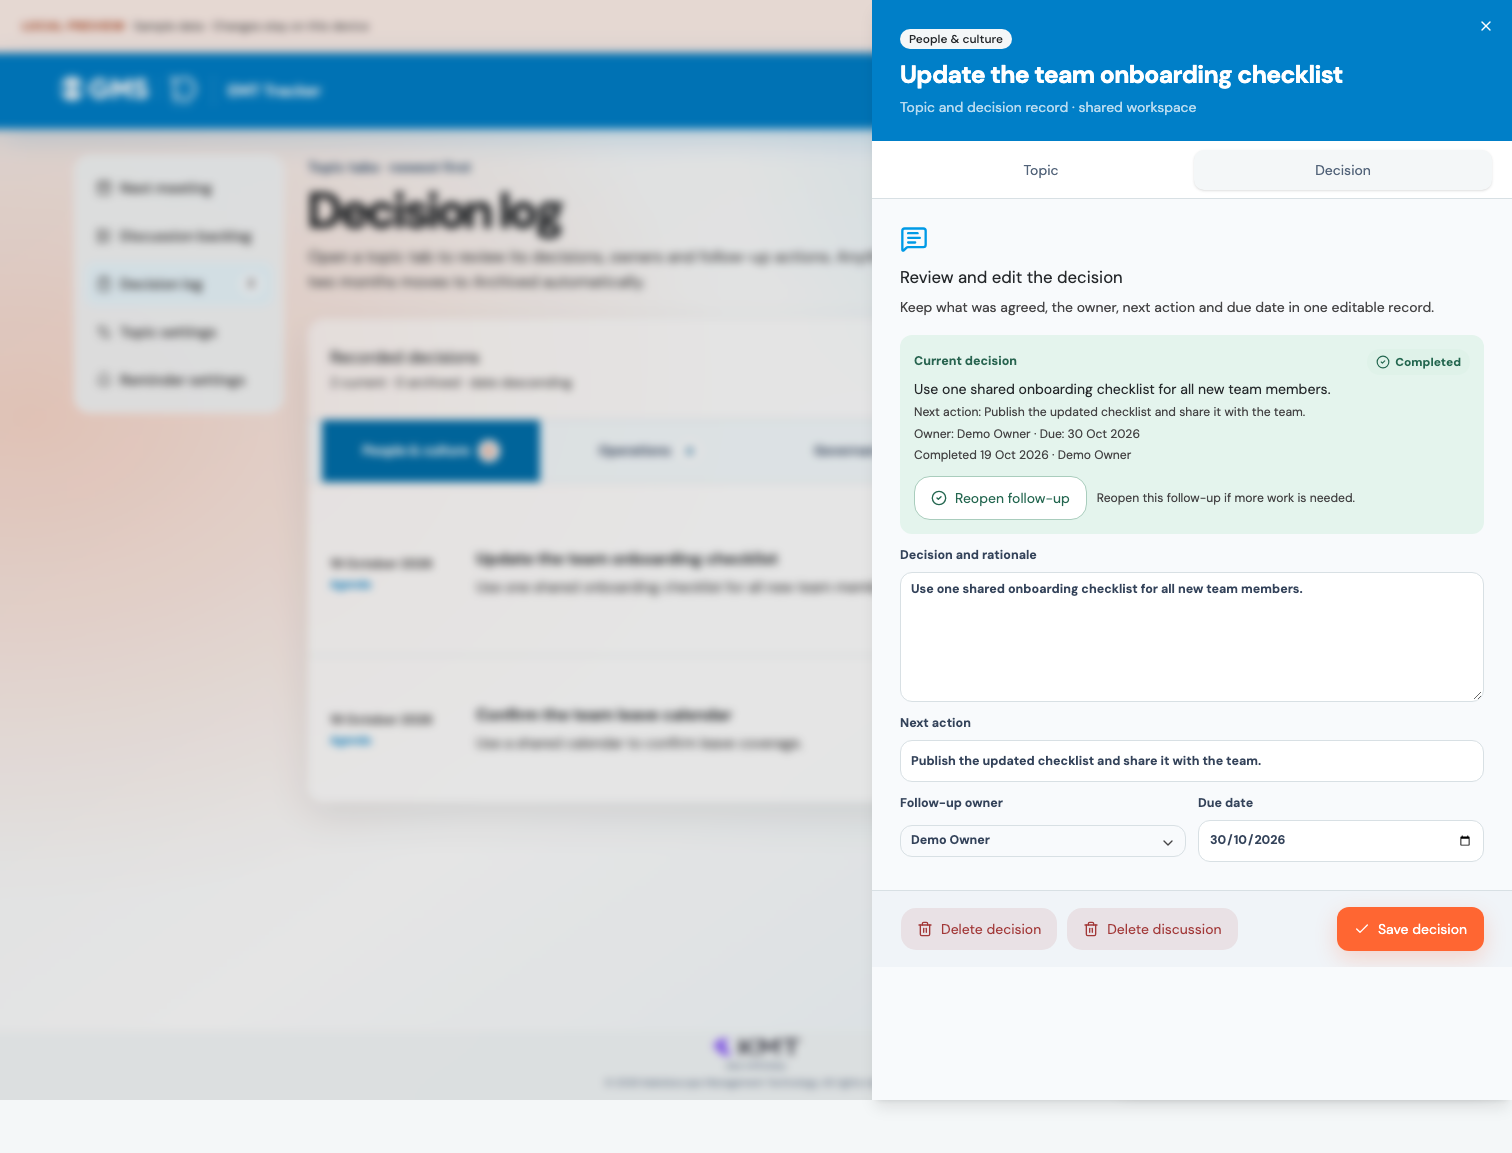
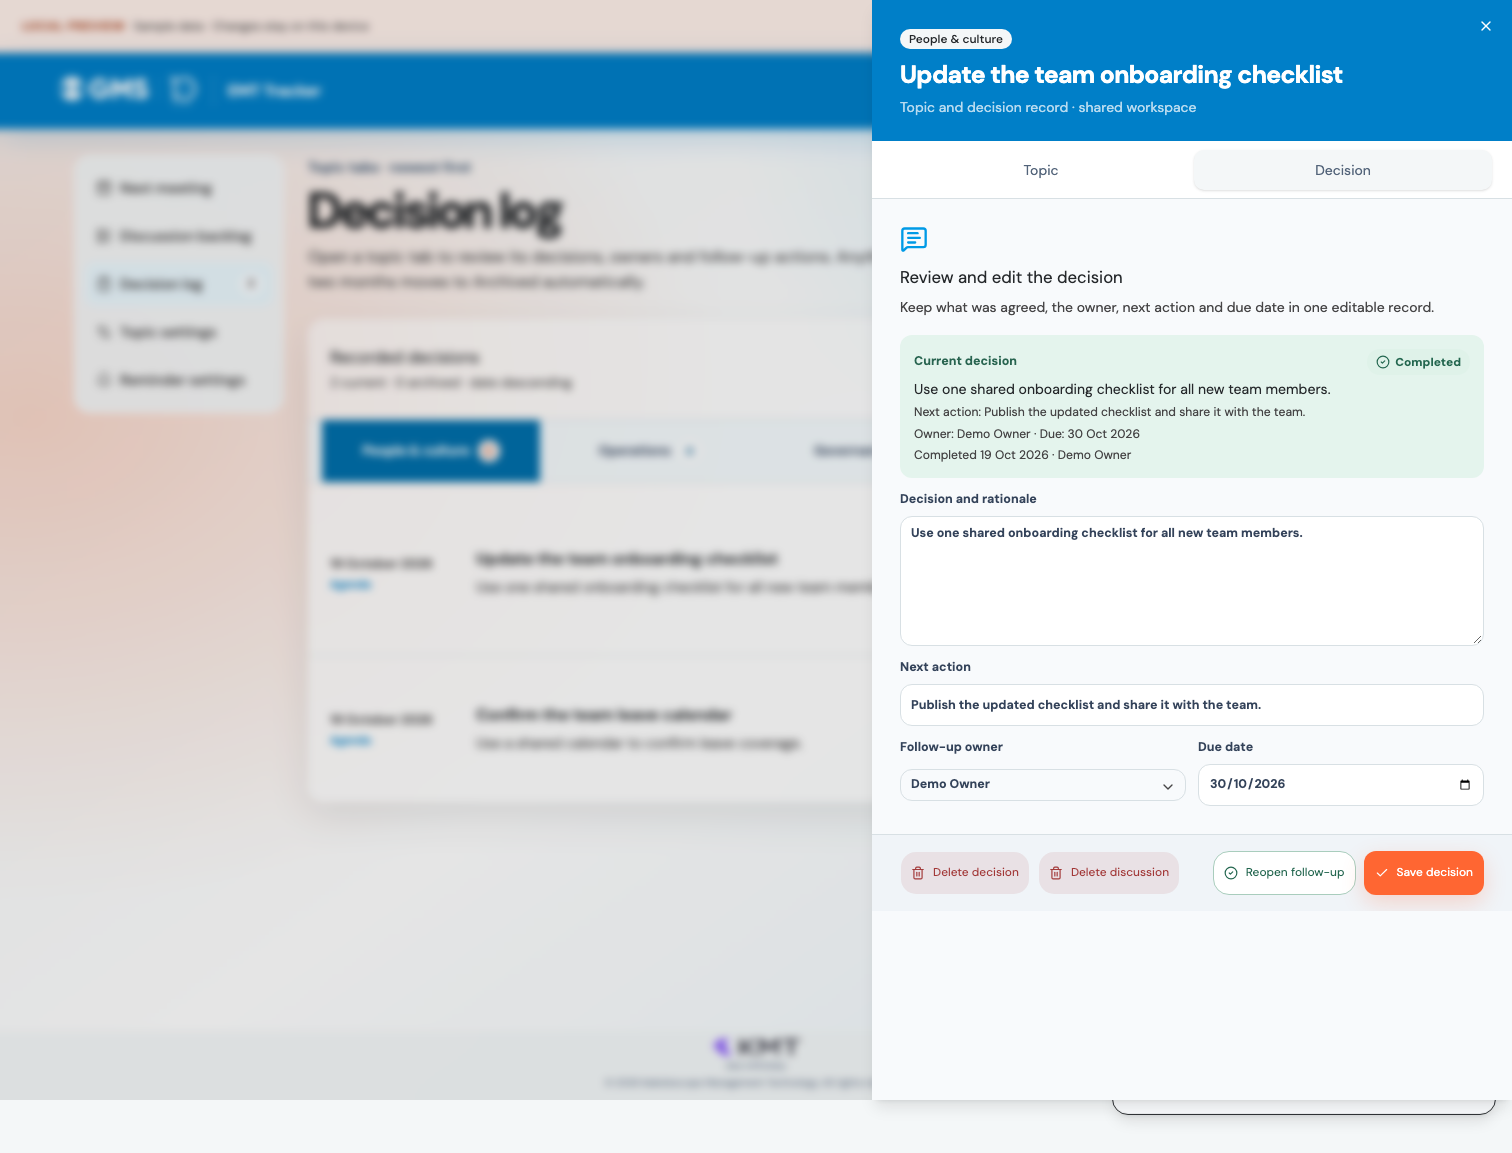
style: move completion action beside save decision

Changed region(s): [[0.5906, 0.562, 0.9947, 0.843], [0.5906, 0.4059, 0.9947, 0.5308]]

diff --git a/app/page.tsx b/app/page.tsx
@@ -3392,55 +3392,6 @@ export default function Home() {
                                 : ''}
                             </small>
                           ) : null}
-                          <div className="completion-actions">
-                            <Button
-                              variant="outline"
-                              className="completion-action mutation-button"
-                              disabled={
-                                pendingMutation !== null ||
-                                !selectedTopic.followUpOwner ||
-                                decisionDraft.decision !==
-                                  selectedTopic.decision ||
-                                decisionDraft.followUpOwner !==
-                                  selectedTopic.followUpOwner ||
-                                decisionDraft.followUpAction !==
-                                  selectedTopic.followUpAction ||
-                                decisionDraft.dueDate !== selectedTopic.dueDate
-                              }
-                              aria-busy={pendingMutation === 'set-completion'}
-                              onClick={() => void toggleCompletion()}
-                            >
-                              {pendingMutation === 'set-completion' ? (
-                                <LoaderCircle
-                                  className="spin"
-                                  aria-hidden="true"
-                                />
-                              ) : (
-                                <CheckCircle2 aria-hidden="true" />
-                              )}
-                              {pendingMutation === 'set-completion'
-                                ? 'Saving…'
-                                : selectedTopic.completedAt
-                                  ? 'Reopen follow-up'
-                                  : 'Mark complete'}
-                            </Button>
-                            <small>
-                              {!selectedTopic.followUpOwner
-                                ? 'Assign an owner and save the decision to mark complete.'
-                                : decisionDraft.decision !==
-                                      selectedTopic.decision ||
-                                    decisionDraft.followUpOwner !==
-                                      selectedTopic.followUpOwner ||
-                                    decisionDraft.followUpAction !==
-                                      selectedTopic.followUpAction ||
-                                    decisionDraft.dueDate !==
-                                      selectedTopic.dueDate
-                                  ? 'Save your changes before updating completion.'
-                                  : selectedTopic.completedAt
-                                    ? 'Reopen this follow-up if more work is needed.'
-                                    : 'Mark complete when the assigned follow-up is finished.'}
-                            </small>
-                          </div>
                         </div>
                       ) : null}
                       <label
@@ -3522,7 +3473,7 @@ export default function Home() {
                         </label>
                       </div>
                     </div>
-                    <SheetFooter className="topic-action-bar">
+                    <SheetFooter className="topic-action-bar decision-action-bar">
                       <div className="topic-delete-actions">
                         {selectedTopic.decision ? (
                           <Button
@@ -3545,24 +3496,67 @@ export default function Home() {
                           Delete discussion
                         </Button>
                       </div>
-                      <Button
-                        className="primary-action topic-save-action mutation-button"
-                        disabled={pendingMutation !== null}
-                        aria-busy={pendingMutation === 'save-decision'}
-                        onClick={() => void saveDecision()}
-                      >
-                        {pendingMutation === 'save-decision' ? (
-                          <>
-                            <LoaderCircle className="spin" aria-hidden="true" />
-                            Saving…
-                          </>
-                        ) : (
-                          <>
-                            <Check aria-hidden="true" />
-                            Save decision
-                          </>
-                        )}
-                      </Button>
+                      <div className="topic-primary-actions">
+                        {selectedTopic.decision ? (
+                          <Button
+                            variant="outline"
+                            className="completion-action mutation-button"
+                            disabled={
+                              pendingMutation !== null ||
+                              !selectedTopic.followUpOwner ||
+                              decisionDraft.decision !==
+                                selectedTopic.decision ||
+                              decisionDraft.followUpOwner !==
+                                selectedTopic.followUpOwner ||
+                              decisionDraft.followUpAction !==
+                                selectedTopic.followUpAction ||
+                              decisionDraft.dueDate !== selectedTopic.dueDate
+                            }
+                            title={
+                              !selectedTopic.followUpOwner
+                                ? 'Assign an owner and save the decision to mark complete.'
+                                : 'Save any decision changes before updating completion.'
+                            }
+                            aria-busy={pendingMutation === 'set-completion'}
+                            onClick={() => void toggleCompletion()}
+                          >
+                            {pendingMutation === 'set-completion' ? (
+                              <LoaderCircle
+                                className="spin"
+                                aria-hidden="true"
+                              />
+                            ) : (
+                              <CheckCircle2 aria-hidden="true" />
+                            )}
+                            {pendingMutation === 'set-completion'
+                              ? 'Saving…'
+                              : selectedTopic.completedAt
+                                ? 'Reopen follow-up'
+                                : 'Mark complete'}
+                          </Button>
+                        ) : null}
+                        <Button
+                          className="primary-action topic-save-action mutation-button"
+                          disabled={pendingMutation !== null}
+                          aria-busy={pendingMutation === 'save-decision'}
+                          onClick={() => void saveDecision()}
+                        >
+                          {pendingMutation === 'save-decision' ? (
+                            <>
+                              <LoaderCircle
+                                className="spin"
+                                aria-hidden="true"
+                              />
+                              Saving…
+                            </>
+                          ) : (
+                            <>
+                              <Check aria-hidden="true" />
+                              Save decision
+                            </>
+                          )}
+                        </Button>
+                      </div>
                     </SheetFooter>
                   </TabsContent>
                 </Tabs>

diff --git a/app/globals.css b/app/globals.css
@@ -2247,21 +2247,11 @@ body.is-topic-pointer-dragging * {
   color: #265974;
   background: #eaf7fd;
 }
-.completion-actions {
-  display: flex;
-  flex-wrap: wrap;
-  align-items: center;
-  gap: 10px;
-  margin-top: 8px;
-}
 .completion-action {
   min-height: 40px;
   color: #23664f;
   border-color: #a9cdbd;
   background: white;
-}
-.completion-actions small {
-  flex: 1 1 180px;
 }
 .saved-decision {
   display: grid;
@@ -2312,6 +2302,22 @@ body.is-topic-pointer-dragging * {
 }
 .topic-save-action {
   margin-left: auto;
+}
+.topic-primary-actions {
+  display: flex;
+  align-items: center;
+  justify-content: flex-end;
+  gap: 8px;
+  margin-left: auto;
+}
+.topic-action-bar.decision-action-bar button {
+  min-width: 0;
+  padding-inline: 10px;
+  font-size: 0.75rem;
+}
+.decision-action-bar button svg {
+  width: 14px;
+  height: 14px;
 }
 .topic-action-bar button {
   min-width: 132px;
@@ -2688,6 +2694,14 @@ body.is-topic-pointer-dragging * {
   }
   .topic-save-action {
     margin-left: 0;
+  }
+  .topic-primary-actions {
+    display: grid;
+    grid-template-columns: repeat(2, minmax(0, 1fr));
+    margin-left: 0;
+  }
+  .topic-primary-actions:has(> :only-child) {
+    grid-template-columns: 1fr;
   }
   .form-dialog [data-slot='dialog-footer'],
   .signin-dialog [data-slot='dialog-footer'],

diff --git a/docs/releases/2026-10-19-follow-up-completion.md b/docs/releases/2026-10-19-follow-up-completion.md
@@ -10,7 +10,7 @@ The browser check in `design-previews/completion/check-preview.mjs` verified Mar
 
 ## Behavior
 
-- Saved decisions with a follow-up owner show `Mark complete` in the Decision tab.
+- Saved decisions with a follow-up owner show `Mark complete` in the Decision tab's bottom action bar, immediately left of Save decision. Reopen uses the same position. The summary card retains status/date information only. Phone layouts use two equal-width action columns.
 - The completed state, completion date and verified actor appear in the drawer. The decision log shows a Completed badge; the original decision and task stay visible.
 - `Reopen follow-up` returns the task to Open. Edits to decision, owner, next action or due date also reopen it; title/context edits retain completion.
 - The existing mutation lock and spinner prevent duplicate submissions. Unsaved decision changes must be saved before completion is changed.
